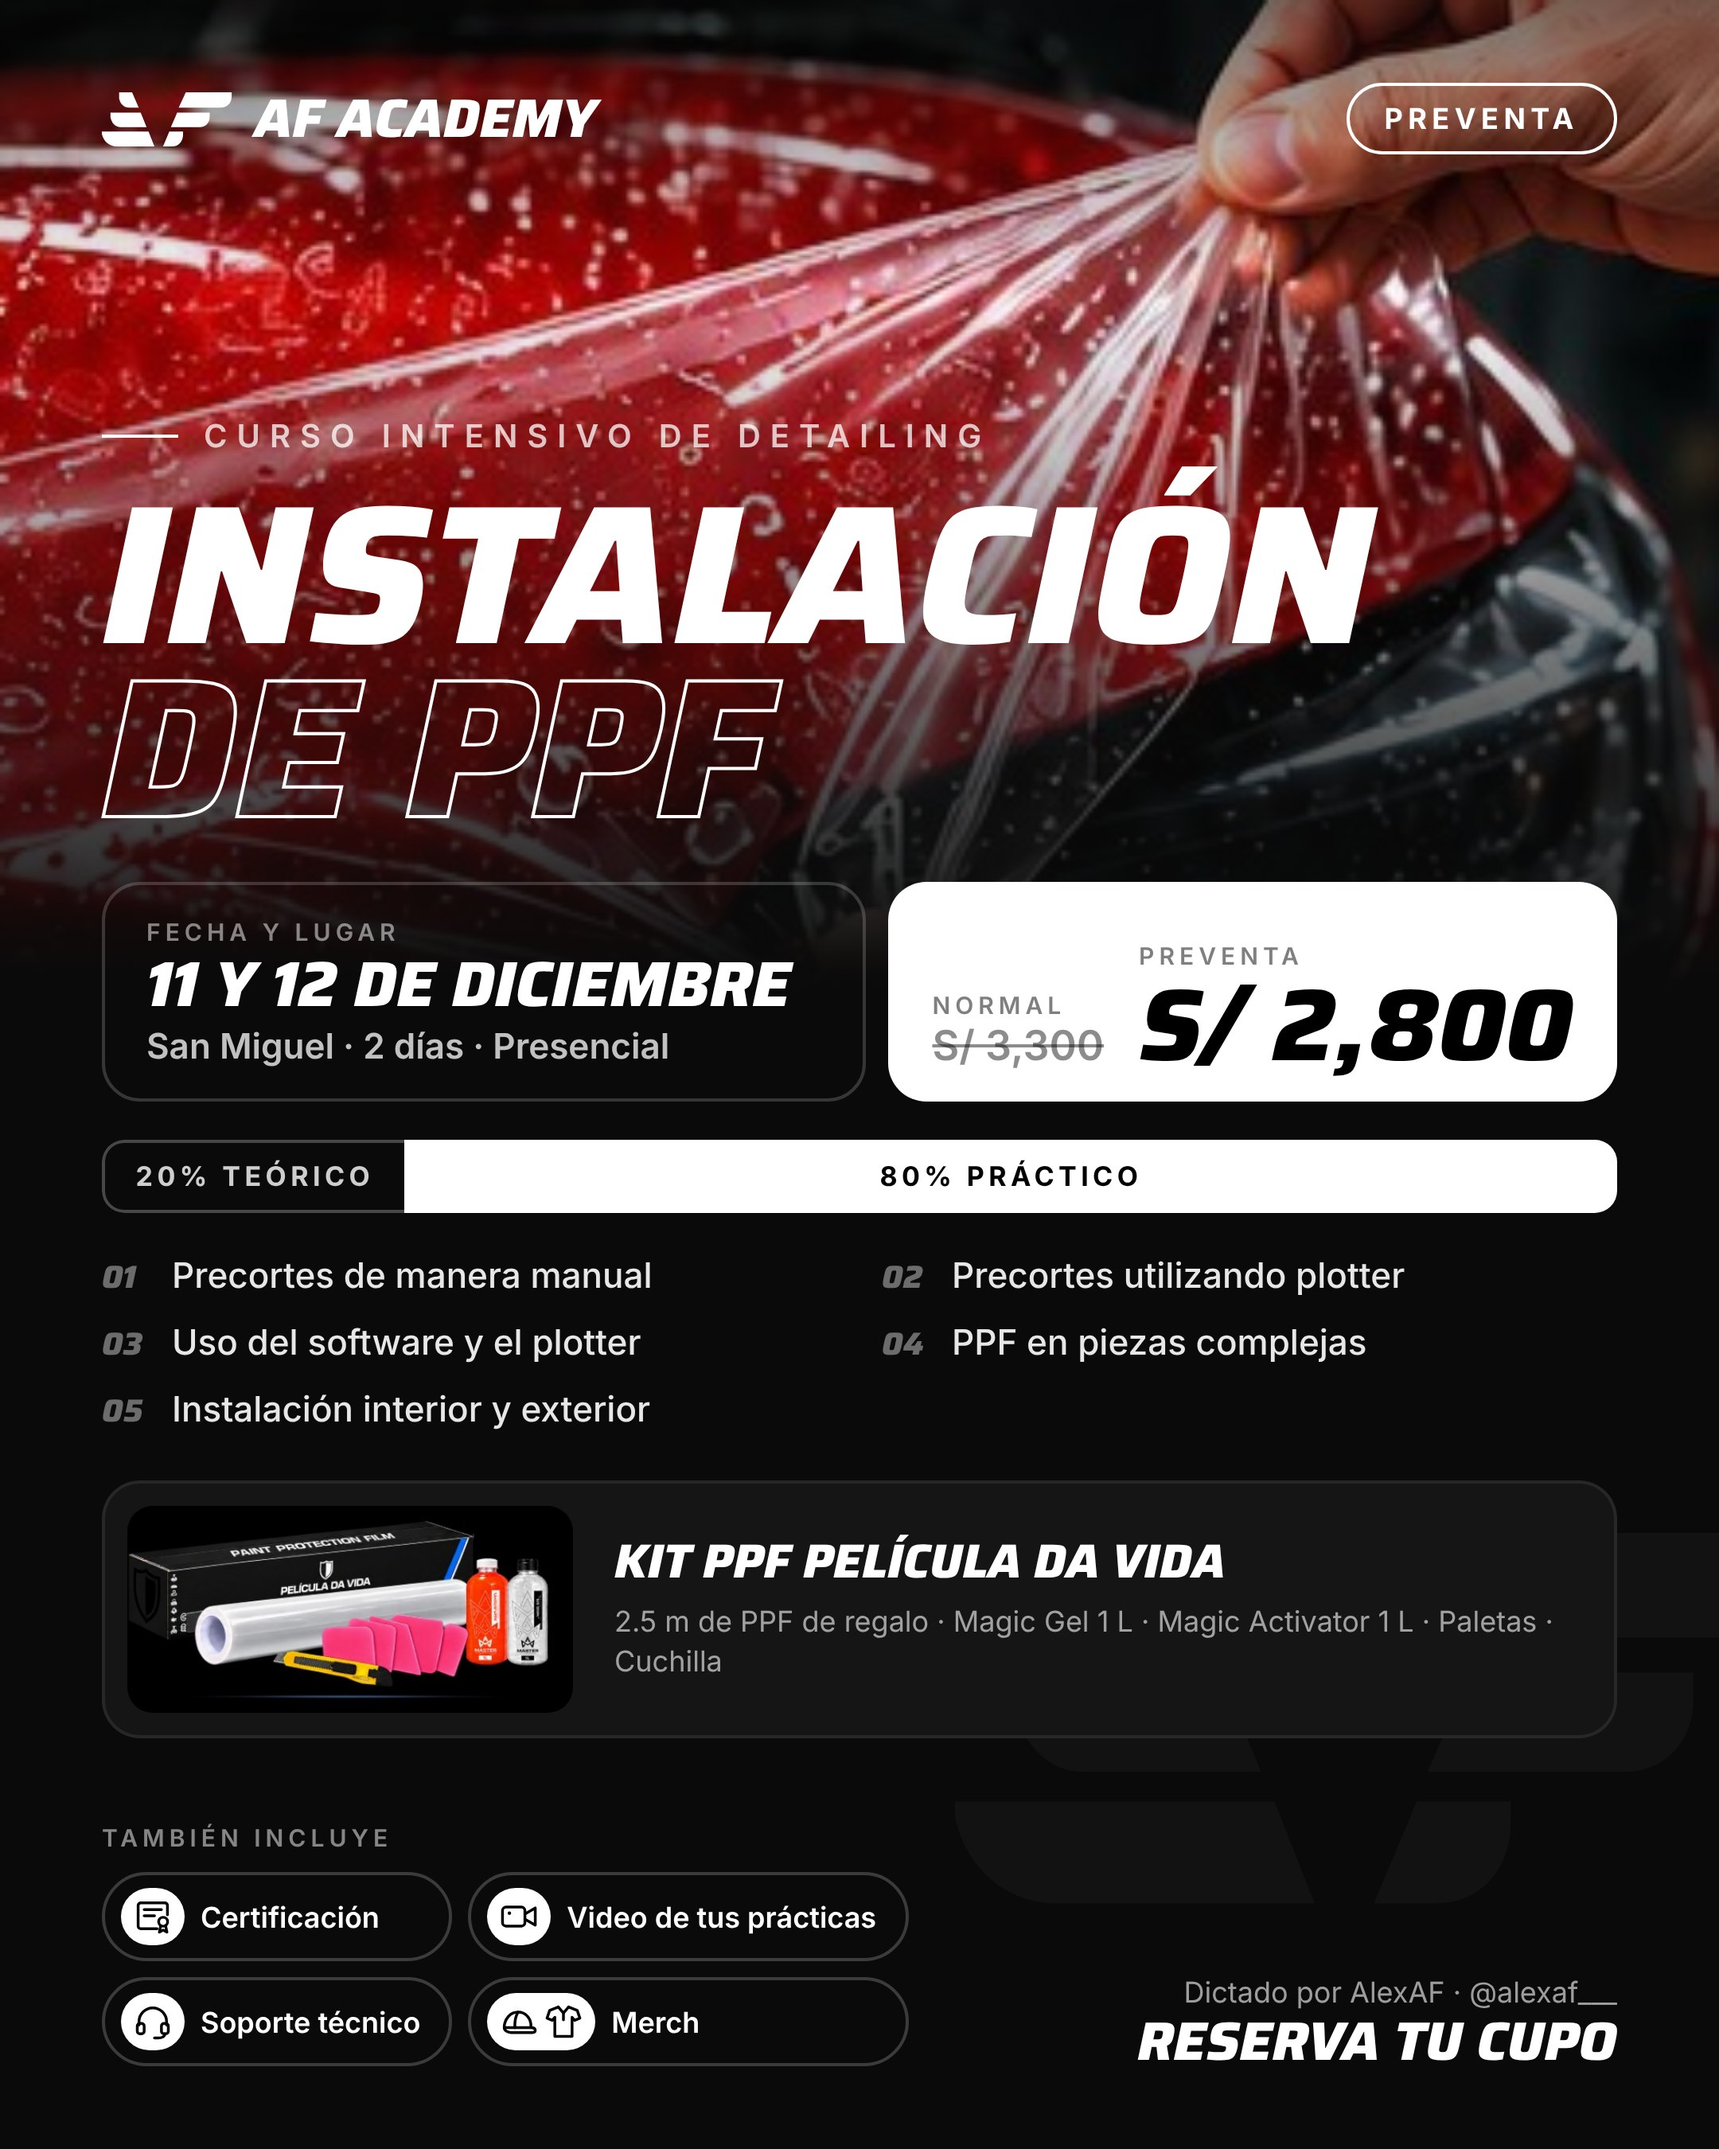
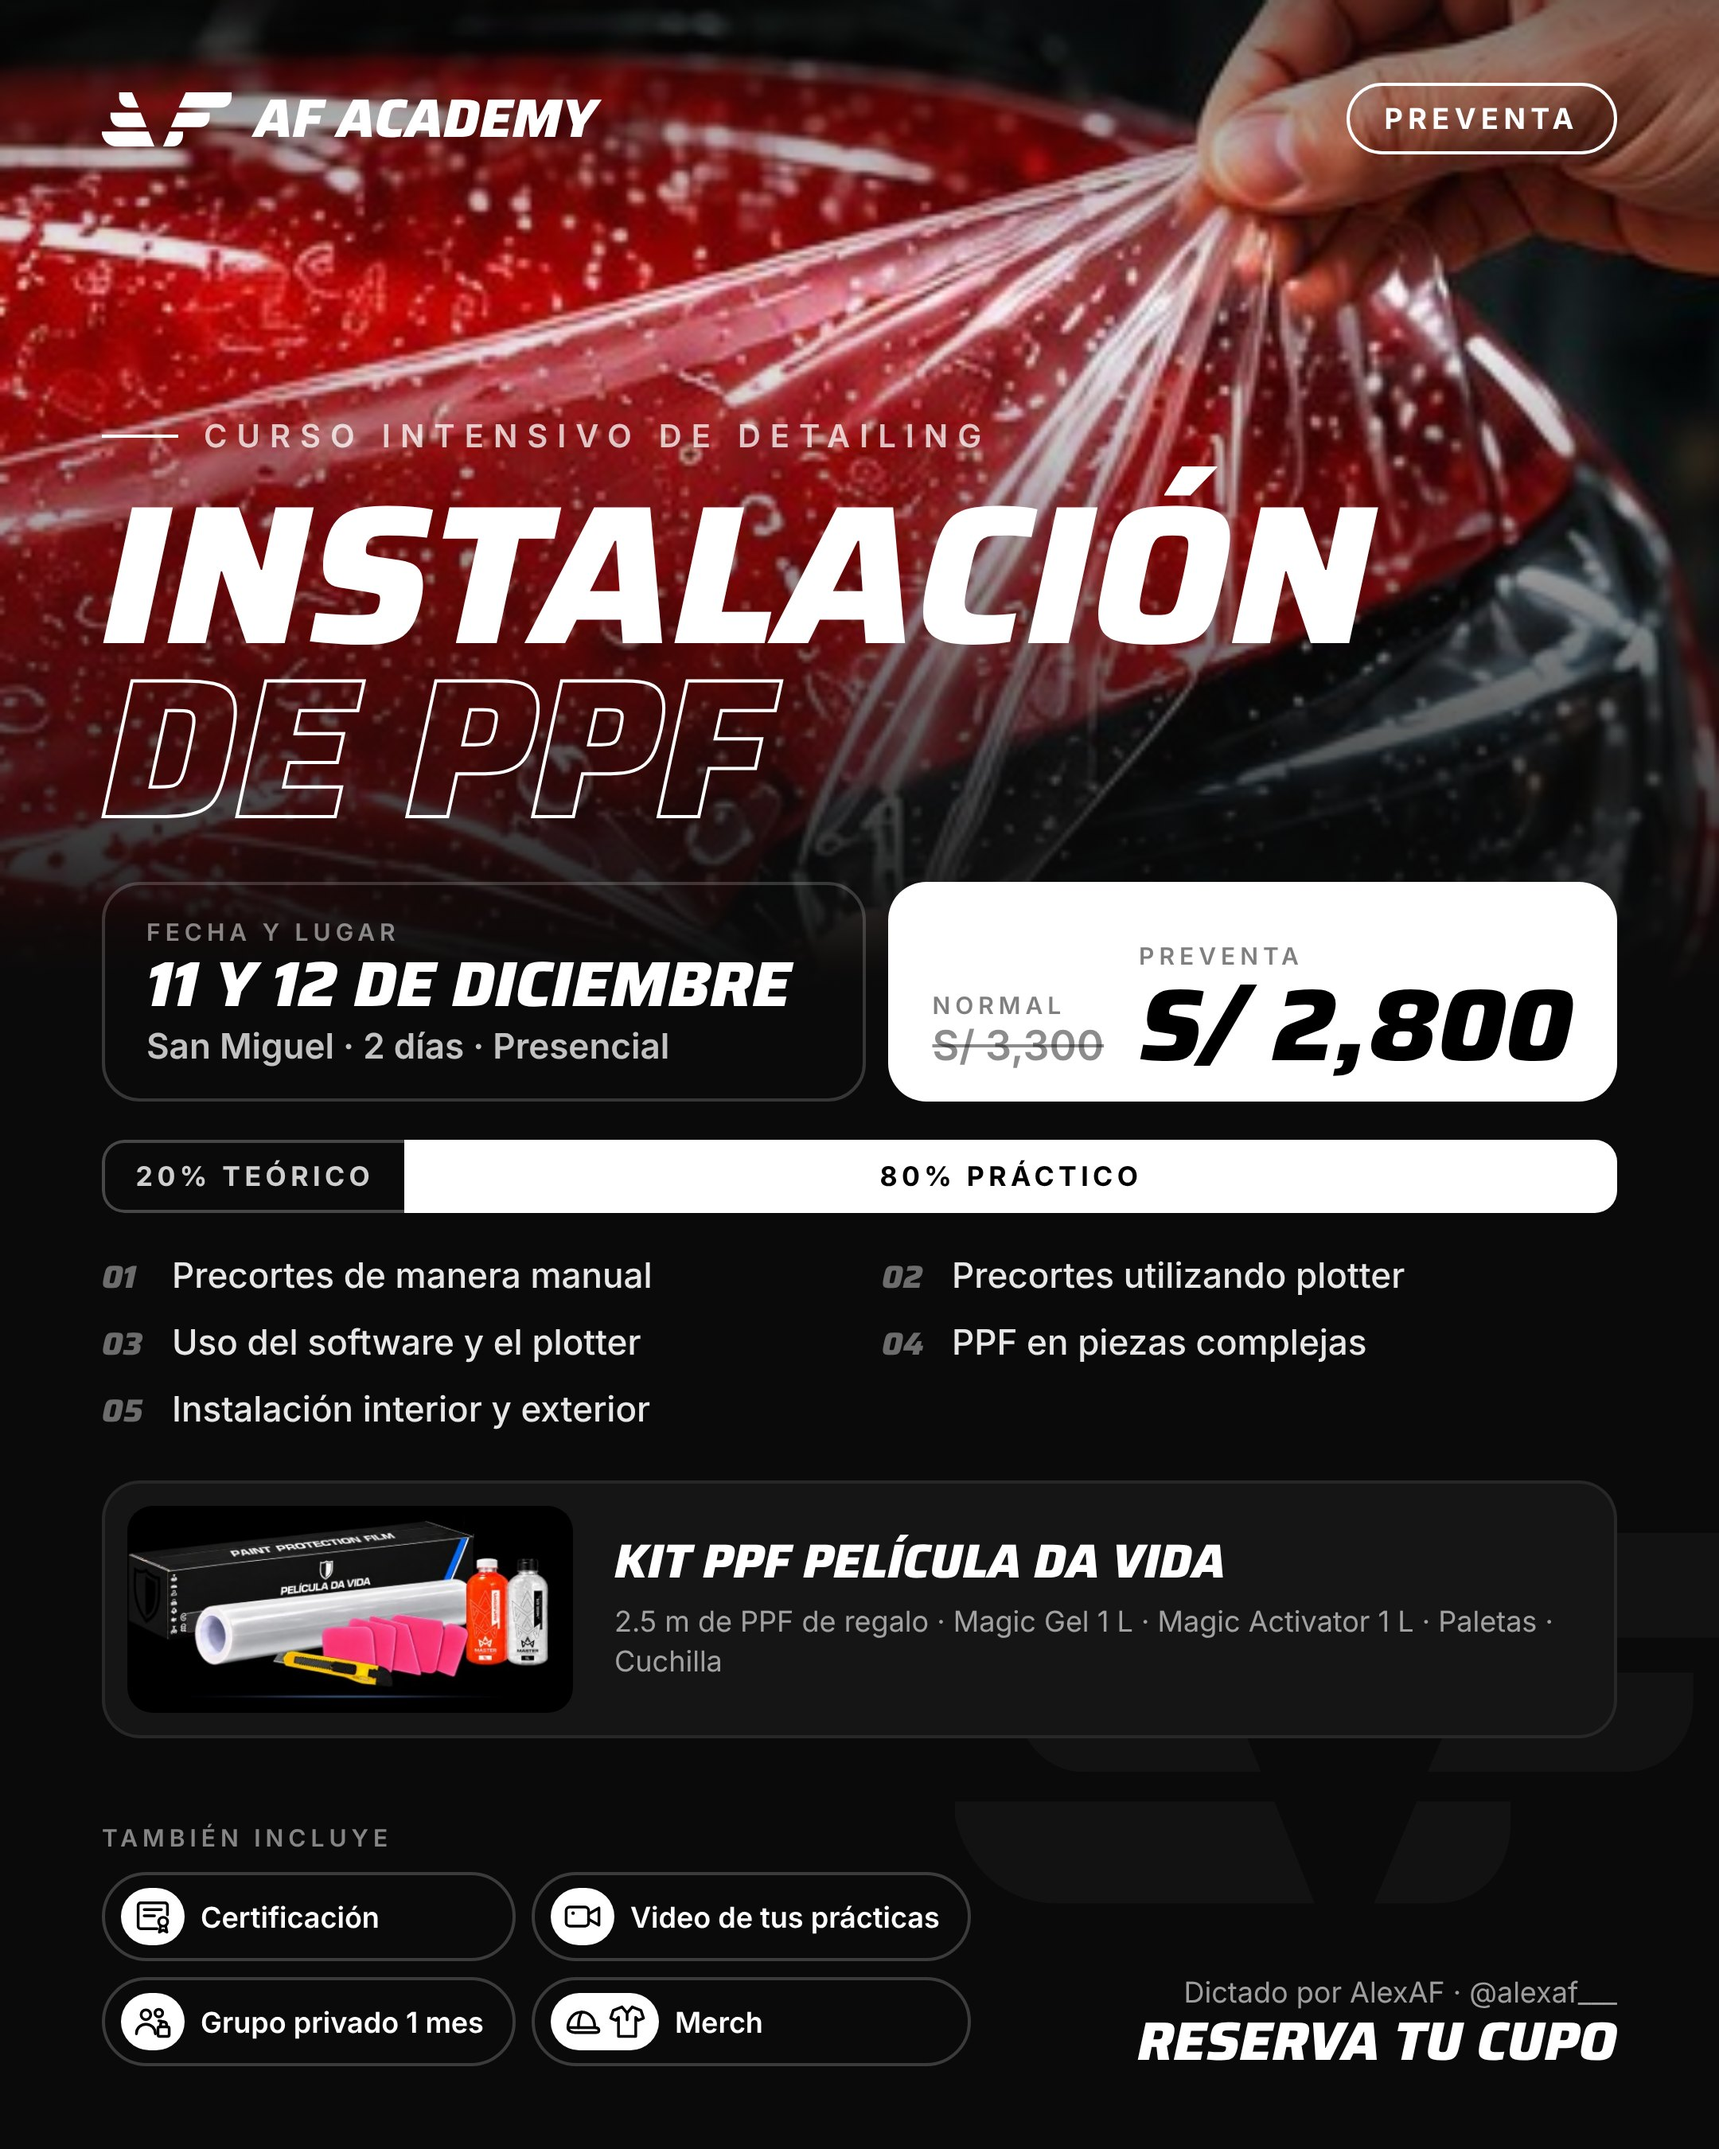
Bonos: «Grupo privado durante 1 mes» en lugar de soporte técnico (web y flyers)
Claude-Session: https://claude.ai/code/session_01JeKCNjXde6szZMvGvJ2iR1

Changed region(s): [[0.1241, 0.8711, 0.5583, 0.9644], [0.062, 0.9333, 0.0931, 0.9644]]

diff --git a/scripts/flyers/make.js b/scripts/flyers/make.js
@@ -15,6 +15,7 @@ const ic = (d) => `<svg viewBox="0 0 24 24" fill="none" stroke="currentColor" st
 const ICON = {
   cert: ic(`<path d="M14.5 19H5a1.5 1.5 0 0 1-1.5-1.5v-12A1.5 1.5 0 0 1 5 4h14a1.5 1.5 0 0 1 1.5 1.5V11"/><path d="M7 8h10M7 11.5h6"/><circle cx="18" cy="15" r="2.6"/><path d="m16.6 17.2-.8 3.8 2.2-1.2 2.2 1.2-.8-3.8"/>`),
   video: ic(`<rect x="2.5" y="6.5" width="13" height="11" rx="2"/><path d="m15.5 10.5 6-3.5v10l-6-3.5"/><circle cx="6.5" cy="10" r="1" fill="currentColor" stroke="none"/>`),
+  group: ic(`<circle cx="8" cy="8" r="2.8"/><path d="M2.5 19c0-3.2 2.5-5.5 5.5-5.5s5.5 2.3 5.5 5.5"/><circle cx="15.5" cy="7" r="2.2"/><path d="M15.5 11.5c1 0 2 .3 2.8.8"/><rect x="15" y="15" width="6.5" height="5.5" rx="1"/><path d="M16.5 15v-1.3a1.75 1.75 0 0 1 3.5 0V15"/>`),
   support: ic(`<path d="M4 14v-2a8 8 0 0 1 16 0v2"/><rect x="3" y="13" width="4" height="6" rx="1.5"/><rect x="17" y="13" width="4" height="6" rx="1.5"/><path d="M19 19c0 1.5-1.5 2.5-4 2.5h-2"/>`),
   cap: ic(`<path d="M3.5 15.5c0-5 3.5-9 8-9s7.5 3.5 7.5 8"/><path d="M3.5 15.5h15.5c1.7 0 2.5.8 2.5 1.6 0 .7-.6 1.2-1.6 1.2H7.5c-2.2 0-4-1.2-4-2.8Z"/><path d="M11.5 6.5c-1.5 2.5-2 5.5-1.8 9"/>`),
   polo: ic(`<path d="M9 3.5 4 5.5 2.5 10l3 1.2L7 9.5V20.5h10V9.5l1.5 1.7 3-1.2L20 5.5l-5-2"/><path d="M9 3.5 12 7l3-3.5"/><path d="M12 7v4"/>`),
@@ -116,7 +117,7 @@ h1 .o{color:transparent;-webkit-text-stroke:2px #fff}
   <div class="kit"><img src="${img(c.kitImg)}"><div><div class="d t">${c.kit}</div><p>${c.kitItems}</p></div></div>
 </div>
 <div class="foot">
-  <div><div class="k" style="margin-bottom:12px">También incluye</div><div class="inc"><span><i>${ICON.cert}</i>Certificación</span><span><i>${ICON.video}</i>Video de tus prácticas</span><span><i>${ICON.support}</i>Soporte técnico</span><span><i>${ICON.cap}${ICON.polo}</i>Merch</span></div></div>
+  <div><div class="k" style="margin-bottom:12px">También incluye</div><div class="inc"><span><i>${ICON.cert}</i>Certificación</span><span><i>${ICON.video}</i>Video de tus prácticas</span><span><i>${ICON.group}</i>Grupo privado 1 mes</span><span><i>${ICON.cap}${ICON.polo}</i>Merch</span></div></div>
   <div class="cta">Dictado por AlexAF · @alexaf___<div class="d">Reserva tu cupo</div></div>
 </div>
 </body></html>`;

diff --git a/src/content/media.ts b/src/content/media.ts
@@ -101,7 +101,7 @@ export const faqs: Faq[] = [
     q: "¿Qué medios de pago aceptan?",
     a: "Aceptamos Yape, Plin, transferencia bancaria y pago con tarjeta. Tu asesor te indicará los datos para realizar el pago de la separación y del saldo.",
   },
-  { q: "¿Entregan certificado?", a: "Sí. Ambos cursos incluyen certificación, el video de tus prácticas, soporte técnico y merch." },
+  { q: "¿Entregan certificado?", a: "Sí. Ambos cursos incluyen certificación, el video de tus prácticas, un grupo privado durante 1 mes y merch." },
   {
     q: "¿Qué incluye cada curso?",
     a: "Tratamiento Cerámico incluye un kit Alcance Pro para tus primeros servicios (Aquo Alcalino, Aquo Neutro, Ziox, Lae36, Claybar y 2 VX45 de 20 ml), además de 20% de descuento en tu primera compra de productos Alcance Pro. Instalación de PPF incluye 2.5 metros lineales de PPF Película Da Vida de regalo, Magic Gel, Magic Activator, kit de paletas y cuchilla, además de 10% de descuento en PPF y 20% en gel + activador.",

diff --git a/src/components/ItemIcons.tsx b/src/components/ItemIcons.tsx
@@ -129,6 +129,18 @@ export const IconCutter = ({ className }: P) => (
   </svg>
 );
 
+/** Grupo privado (personas con candado) */
+export const IconPrivateGroup = ({ className }: P) => (
+  <svg {...base} className={className}>
+    <circle cx="8" cy="8" r="2.8" />
+    <path d="M2.5 19c0-3.2 2.5-5.5 5.5-5.5s5.5 2.3 5.5 5.5" />
+    <circle cx="15.5" cy="7" r="2.2" />
+    <path d="M15.5 11.5c1 0 2 .3 2.8.8" />
+    <rect x="15" y="15" width="6.5" height="5.5" rx="1" />
+    <path d="M16.5 15v-1.3a1.75 1.75 0 0 1 3.5 0V15" />
+  </svg>
+);
+
 /** Caja de regalo (kit) */
 export const IconGiftBox = ({ className }: P) => (
   <svg {...base} className={className}>
@@ -229,6 +241,7 @@ export const IconWorkshop = ({ className }: P) => (
 
 const rules: [RegExp, React.ComponentType<P>[]][] = [
   [/descuento|%\s*de\s*desc/i, [IconDiscount]],
+  [/grupo privado|comunidad/i, [IconPrivateGroup]],
   [/kit cer[aá]mico/i, [IconKitCeramic]],
   [/kit ppf/i, [IconKitPPF]],
   [/^kit\b/i, [IconGiftBox]],

diff --git a/src/content/courses.ts b/src/content/courses.ts
@@ -57,7 +57,7 @@ export type Course = {
   seo?: { title?: string; description?: string };
 };
 
-const commonIncludes = ["Certificación", "Video de tus prácticas", "Soporte técnico", "Merch"];
+const commonIncludes = ["Certificación", "Video de tus prácticas", "Grupo privado durante 1 mes", "Merch"];
 
 /** Lo que incluyen los cursos presenciales. */
 const commonIncluye = [
